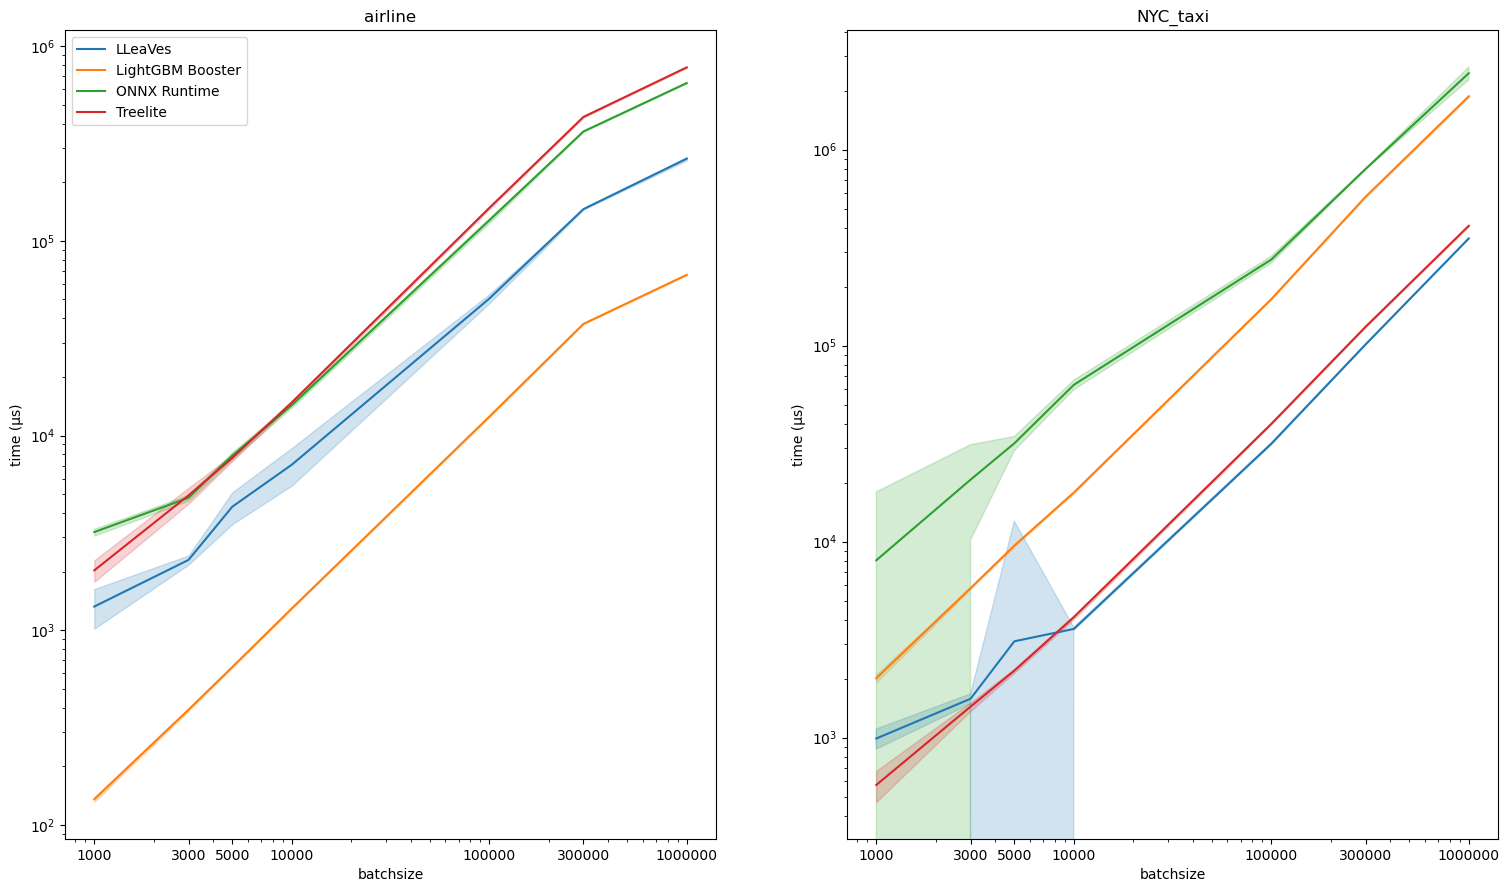
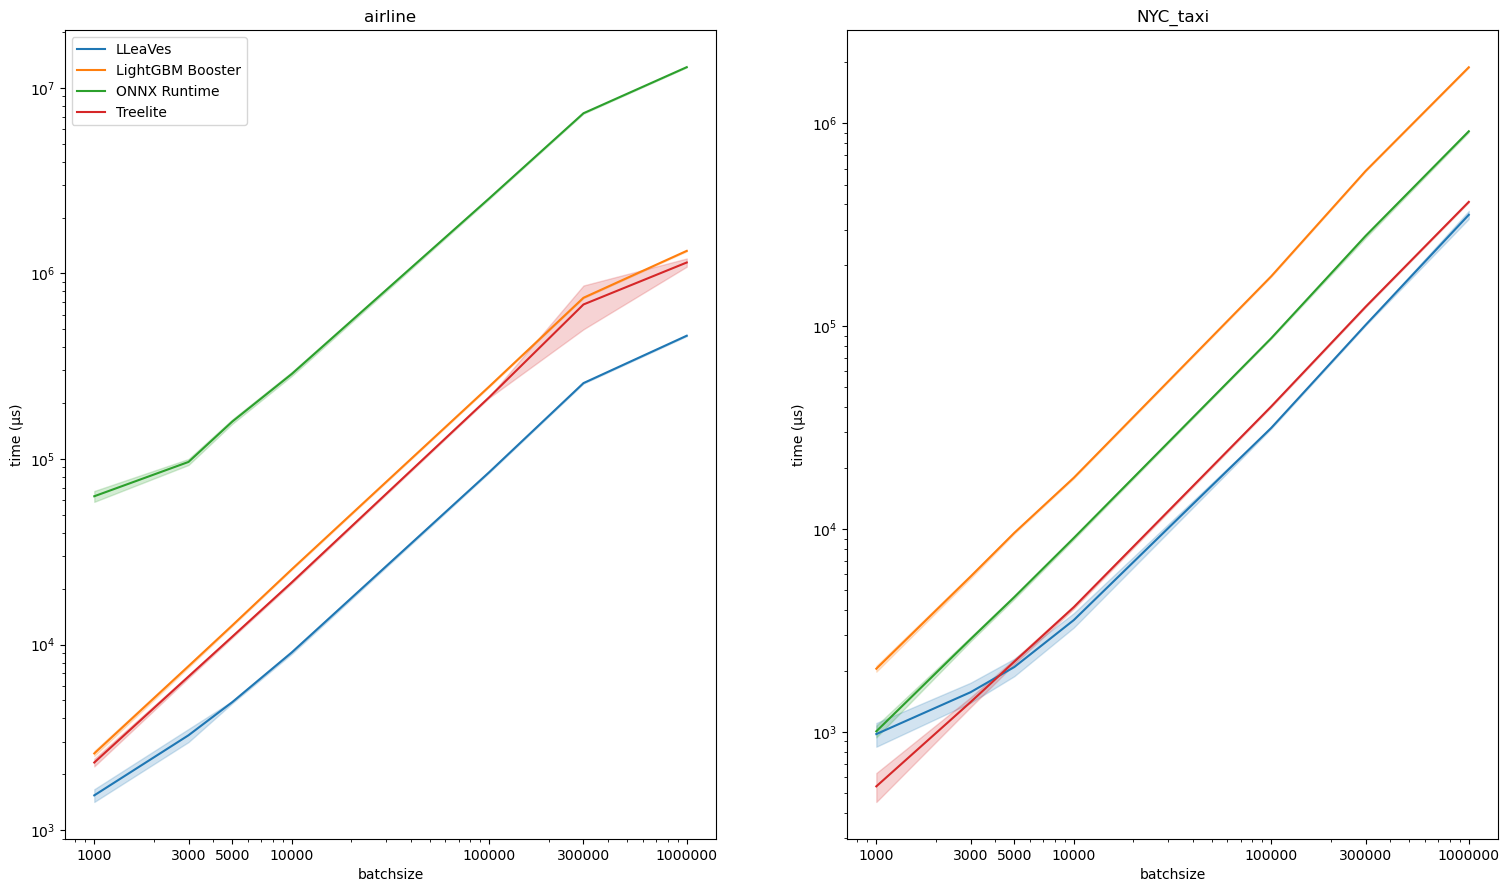
Avg benchmarks over more runs

diff --git a/lleaves/lleaves.py b/lleaves/lleaves.py
@@ -87,6 +87,7 @@ class Model:
         # Add optimization passes to module-level optimizer
         pmb.populate(pm_module)
 
+        # single pass only, compiler optims don't help very much
         pm_module.run(module)
         self._IR_module = module
         return self._IR_module

diff --git a/benchmarks/benchmark.py b/benchmarks/benchmark.py
@@ -56,7 +56,7 @@ class LLVMModel(BenchmarkModel):
 
 
 class LLVMModelSingle(BenchmarkModel):
-    name = "LLeaVes (ST)"
+    name = "LLeaVes (single-threaded)"
 
     def _setup(self, data, n_threads):
         self.model = Model(model_file=self.model_file)

diff --git a/README.md b/README.md
@@ -12,11 +12,13 @@ converts them into optimized machine code.
 ## Why not LLeaves?
 Some LightGBM features are not yet implemented in LLeaVes:
 - Multiclass prediction
-- Multithreading
 - Linear Models
 
 ## Benchmarks
 [benchmark script](benchmarks/benchmark.py).
+Intel Xeon Haswell, 8vCPUs.
+Some of the variance is due to performance interference.
+
 Datasets used:
 - NYC-taxi: Focus on numerical features
 - Airlines: Focus on categorical features, some with high cardinality (>100)
